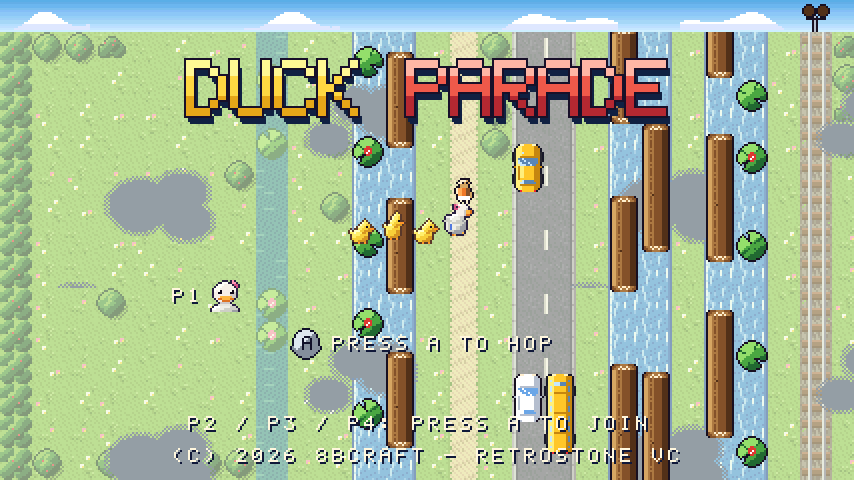
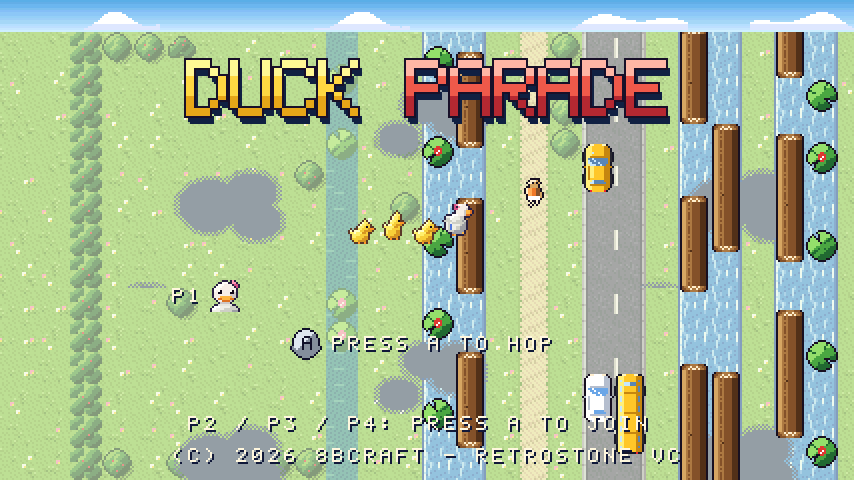
Duck Parade: wide view 1/3 left (a third of the extra width behind the duck)
Widescreen: the stage origin is a third of the extra width (WIDE_LEFT_NUM /
WIDE_LEFT_DEN in tuning.h): 35 px behind and 72 ahead at 427, 66 and 134 at
520, 80 and 160 at 560. The world, the generator, the rules (the camera, the
fox on the stage's left edge) and the start are unchanged; the field is drawn
from the screen's real left edge (the passed columns; behind the start, more
meadow), the traffic, lights and sprites behind are shown, the fox's red edge
tints everything left of its line, the HUD and UI stay centred (hu_ui_x). The
sprite budget and the bot keep the stage (4:3) as before. Tests: test_ui checks
that every column on the screen is drawn, wide_test the screen's edges (through
a touch target). 320 byte-identical. Screenshots again (banking-nest-pond.png
was stale before this change).

diff --git a/games/duckparade/src/draw.c b/games/duckparade/src/draw.c
@@ -27,7 +27,8 @@ static const rs_color title_ramps[2][3] = {
 
 static rs_color line_col[FIELD_Y];
 static int16_t bg2_dx[RS_SCREEN_H];
-static int32_t drawn_col[64];    /* the world column drawn in each map slot (-1 none; widescreen: 64 slots) */
+#define NO_COL INT32_MIN         /* (a column behind the start, left of 0, may be drawn on a wide screen) */
+static int32_t drawn_col[64];    /* the world column drawn in each map slot (NO_COL none; widescreen: 64 slots) */
 static int8_t drawn_shift[64];   /* the rapids' shift drawn there */
 static int shown_state = -1, shown_best = -1, shown_players = -1;
 static int facing[MAX_PLAYERS];  /* the last hop's direction (the sprite faces it) */
@@ -66,8 +67,10 @@ static void sky_gradient(void)
 }
 
 /* ---- set-up -------------------------------------------------------------------------------------------------------- */
-/* Widescreen (DESIGN.md "Widescreen"): the stage origin stays 0 (the world is revealed wider on the right; the camera,
- * the fox on the left edge and the rules are those of 320 columns). The field (BG3) and the sky band and cloud
+/* Widescreen (DESIGN.md "Widescreen"): the world is revealed wider, a third of the extra width behind the duck (the
+ * stage origin, wide_left(): main.c sets it) and two thirds ahead; the camera, the fox on the stage's left edge and the
+ * rules are those of 320 columns, in stage coordinates. The field draws the columns from the screen's real left edge
+ * (behind the start, left of column 0, grass). The field (BG3) and the sky band and cloud
  * shadows (BG2) are 64-tile maps (512 px) at 320 columns, 128 (1024 px) on a wider screen: the field's columns go
  * round 64 map slots instead of 32, the band's clouds go on over 1024 px (sky-wide.png: no cloud seen twice), the
  * shadows' 256-px pattern repeats as at 320. The UI layer is 128 tiles beyond 512 columns; it is scrolled by
@@ -77,6 +80,7 @@ static int wide(void) { return rs_screen_width() > RS_SCREEN_W; }
 static int map_w(void) { return wide() ? 128 : 64; }                  /* BG2, BG3 */
 static int ui_w(void) { return rs_screen_width() > 512 ? 128 : 64; }  /* BG1 */
 static int slots(void) { return rs_bg_map_w(RS_BG3) / 2; }           /* the field's map slots (16-px columns) */
+int draw_col_shown(int32_t col) { return drawn_col[col & (slots() - 1)] == col; }   /* tests/test_ui.c */
 
 static void maps_setup(void)
 {
@@ -93,7 +97,7 @@ static void maps_setup(void)
         }
     for (int y = BAND_ROWS; y < 32; y++)
         for (int x = 0; x < map_w(); x++) rs_bg_put(RS_BG2, x, y, dp_shadow_map[((y - BAND_ROWS) & 15) * 32 + (x & 31)]);
-    for (int i = 0; i < 64; i++) drawn_col[i] = -1;
+    for (int i = 0; i < 64; i++) drawn_col[i] = NO_COL;
 }
 
 void draw_init(void)
@@ -115,13 +119,13 @@ void draw_init(void)
     sky_gradient();
     rs_bg_line_scroll(RS_BG2, bg2_dx, NULL);
     rs_raster(raster, NULL);
-    for (int i = 0; i < 64; i++) drawn_col[i] = -1;
+    for (int i = 0; i < 64; i++) drawn_col[i] = NO_COL;
 }
 
 void draw_reset(const world *w)
 {
     (void)w;
-    for (int i = 0; i < 64; i++) drawn_col[i] = -1;
+    for (int i = 0; i < 64; i++) drawn_col[i] = NO_COL;
     for (int p = 0; p < MAX_PLAYERS; p++) facing[p] = HOP_FWD;
     hud_score = hud_line = hud_best = hud_score2 = -1;
     photo_t = -1;
@@ -220,9 +224,11 @@ static void draw_column(const world *w, int32_t col, int slot)
 
 static void field(const world *w, int cam)
 {
-    int c0 = cam >> 4, sm = slots() - 1;
-    for (int32_t c = c0 - 1; c <= c0 + screen_cols() + 1; c++) {        /* widescreen: to the real right edge */
-        if (c < 0) continue;
+    int c0 = cam >> 4, sm = slots() - 1, left = left_cols();
+    /* widescreen: from the real left edge (the world behind the duck; behind the start, left of column 0, the meadow
+     * goes on: grass) to the real right edge */
+    for (int32_t c = c0 - 1 - left; c <= c0 + screen_cols() + 1; c++) {
+        if (c < 0 && !left) continue;
         int slot = (int)(c & sm);
         const lane *l = world_lane(w, c);
         if (drawn_col[slot] != c) { draw_column(w, c, slot); continue; }
@@ -331,8 +337,8 @@ int draw_dropped(void) { return spr_dropped; }
 static void spr(int id, int x, int y, int prio, int pal, int flags)
 {
     const dp_sprite_def *d = &dp_spr[id];
-    if (x <= -(int)d->w || x >= rs_screen_right() || y <= -(int)d->h || y >= RS_SCREEN_H) return;
-    int tier = x - spr_ui_dx >= RS_SCREEN_W;       /* off a 4:3 screen: only a wider one shows it */
+    if (x <= rs_screen_left() - (int)d->w || x >= rs_screen_right() || y <= -(int)d->h || y >= RS_SCREEN_H) return;
+    int ux = x - spr_ui_dx, tier = ux >= RS_SCREEN_W || ux <= -(int)d->w;   /* off a 4:3 screen: only a wider one shows it */
     if (tier ? nq >= Q_MAX : nq0 >= Q_CLASSIC) return;
     nq0 += !tier;
     qspr *s = &q[nq++];
@@ -535,7 +541,7 @@ static int mover_sprite(int kind, int down, int t, int i, int *dy)
 static void draw_traffic(const world *w, int cam, int sx, int sy, int t, int platforms)
 {
     int c0 = cam >> 4;
-    for (int32_t c = c0; c <= c0 + screen_cols(); c++) {              /* widescreen: to the real right edge */
+    for (int32_t c = c0 - left_cols(); c <= c0 + screen_cols(); c++) {  /* widescreen: from the real left edge */
         const lane *l = world_lane(w, c);
         if (!l) continue;
         int x = c * CELL - cam + sx;
@@ -565,7 +571,7 @@ static void draw_traffic(const world *w, int cam, int sx, int sy, int t, int pla
 static void draw_band(const world *w, int cam, int t)
 {
     int c0 = cam >> 4;
-    for (int32_t c = c0; c <= c0 + screen_cols(); c++) {              /* widescreen: to the real right edge */
+    for (int32_t c = c0 - left_cols(); c <= c0 + screen_cols(); c++) {  /* widescreen: from the real left edge */
         const lane *l = world_lane(w, c);
         if (!l) continue;
         int x = c * CELL - cam;
@@ -862,7 +868,8 @@ void draw_frame(const world *w, int state, int st_t, int best, int new_best, int
     }
     draw_band(w, cam, t);
     draw_fox(w, cam, sx, sy, t);
-    if (fog_w) { rs_window(0, 0, fog_w); rs_fog(RS_WIN1, RS_RGB(28, 6, 4), RS_MATH_BG3); }
+    /* the fox's red edge: from the screen's left edge (widescreen: the world behind the stage too) */
+    if (fog_w) { rs_window(0, rs_screen_left(), fog_w); rs_fog(RS_WIN1, RS_RGB(28, 6, 4), RS_MATH_BG3); }
     else rs_fog(0, 0, 0);
     for (int p = 0; p < w->players && state != DS_TITLE; p++) draw_duck(w, p, cam, sx, sy, t);
     for (int p = 0; p < w->players; p++) draw_line(w, p, cam, sx, sy, t);

diff --git a/games/duckparade/tests/test_ui.c b/games/duckparade/tests/test_ui.c
@@ -221,10 +221,21 @@ static void mode_title(void)
     if (!fails) OK("get ready, the first hop, the HUD, pause and resume");
 }
 
+/* widescreen: every world column on the screen is drawn in the field's map, those behind the 320-column stage too (a
+ * third of the extra width is behind the duck: DESIGN.md "Widescreen"; behind the start, left of column 0, grass) */
+int draw_col_shown(int32_t col);
+static int field_drawn(const world *w)
+{
+    int cam = world_cam_px(w);
+    for (int32_t c = (cam + rs_screen_left()) >> 4; c <= (cam + rs_screen_right() - 1) >> 4; c++)
+        if (!draw_col_shown(c)) return 0;
+    return 1;
+}
+
 static void mode_run(int max_frames)
 {
     int st, last_st = -1, banks = 0, photo_ok = 0, band_checks = 0, band_bad = 0, hud_bad = 0, hud_checks = 0, line_bad = 0;
-    int over_checked = 0;
+    int over_checked = 0, field_bad = 0;
     for (int f = 0; f < max_frames; f++) {
         frame(0, 0);
         const world *w = dp_test_world(&st);
@@ -239,6 +250,7 @@ static void mode_run(int max_frames)
                 band_checks++;
                 int r = band_hides_world();
                 if (r < 0) band_bad++;
+                if (!field_drawn(w) && field_bad++ < 3) printf("  frame %d: a column on the screen is not drawn\n", f);
             }
             if (w->events[0] & EV_BANK) {
                 banks++;
@@ -274,6 +286,8 @@ static void mode_run(int max_frames)
     CHECK(hud_checks > 300 && hud_bad == 0, "the HUD showed the score on every frame of the run (%d frames, %d wrong)", hud_checks, hud_bad);
     CHECK(line_bad == 0, "the duckling count on the HUD (%d wrong)", line_bad);
     CHECK(band_checks > 20 && band_bad == 0, "the sky band hides the world's sprites (%d checks, %d failed)", band_checks, band_bad);
+    CHECK(field_bad == 0, "every world column on the screen is drawn, from x %d (the world behind the stage: %d px) "
+          "(%d checks, %d failed)", rs_screen_left(), rs_screen_origin_x(), band_checks, field_bad);
     CHECK(banks == 0 || photo_ok == banks, "the family photo after each banking (%d of %d)", photo_ok, banks);
     CHECK(over_checked, "the run ended on the game-over panel");
     printf("  %d banking(s) seen\n", banks);

diff --git a/games/duckparade/src/dp.h b/games/duckparade/src/dp.h
@@ -19,9 +19,12 @@ static inline int clampi(int v, int lo, int hi) { return v < lo ? lo : v > hi ? 
 static inline int absi(int v) { return v < 0 ? -v : v; }
 static inline int modi(int a, int m) { int r = a % m; return r < 0 ? r + m : r; }
 /* Widescreen (DESIGN.md "Widescreen"): the columns the screen shows, SCREEN_COLS (20) at 320, up to 35 at 560. The
- * screen shows more of the world on the right; the rules (the camera, the fox, where a knocked duckling flies) keep
- * SCREEN_COLS: only what is generated and drawn follows the width. */
+ * screen shows more of the world, a third of the extra width behind (left of the 320-column stage: the stage origin,
+ * wide_left()) and two thirds ahead; the rules (the camera, the fox, where a knocked duckling flies) keep SCREEN_COLS
+ * and the stage: only what is generated and drawn follows the width. */
 static inline int screen_cols(void) { return (rs_screen_width() + CELL - 1) / CELL; }
+static inline int wide_left(void) { return (rs_screen_width() - RS_SCREEN_W) * WIDE_LEFT_NUM / WIDE_LEFT_DEN; }
+static inline int left_cols(void) { return (wide_left() + CELL - 1) / CELL; }   /* world columns shown behind */
 
 /* ================================ lanes.c ========================================================== */
 enum lane_kind { LK_GRASS, LK_ROAD, LK_RIVER, LK_RAIL, LK_PARK, LK_POND, LK_NEST, LK_HEDGE, LK_KINDS };

diff --git a/games/duckparade/src/bot.c b/games/duckparade/src/bot.c
@@ -114,7 +114,8 @@ static void look(int scroll)
     for (int i = 0; i < RS_OAM_MAX; i++) {
         rs_sprite *s = rs_oam(i);
         if (!s || !s->used || (s->flags & RS_SPR_HIDE)) continue;
-        if (s->x >= RS_SCREEN_W) continue;       /* widescreen: the bot looks at the 4:3 screen (it plays the same) */
+        /* widescreen: the bot looks at the 4:3 screen, the stage (it plays the same): not at what is behind or ahead */
+        if (s->x >= RS_SCREEN_W || s->x <= -(int)s->w) continue;
         int t = s->tile, kind = -1, dir = 0, y = s->y - FIELD_Y, h = s->h;
         if (spr_in(t, SPR_DUCK_RIGHT, 4) || spr_in(t, SPR_DUCK_LEFT, 4) || spr_in(t, SPR_DUCK_UP, 4) || spr_in(t, SPR_DUCK_DOWN, 4)) {
             int p = parent_of_pal(s->pal);

diff --git a/games/duckparade/src/tuning.h b/games/duckparade/src/tuning.h
@@ -118,6 +118,10 @@
 #define MEADOW_COLS      8      /* the starting meadow: columns 0..7 */
 #define START_COL        6
 #define START_ROW        7
+/* widescreen (DESIGN.md "Widescreen"): the share of the extra width shown on the LEFT, behind the duck (the rest is
+ * ahead, on the right): the stage origin. 427: 35 px behind, 72 ahead; 520: 66 and 134; 560: 80 and 160. */
+#define WIDE_LEFT_NUM    1
+#define WIDE_LEFT_DEN    3
 
 /* group sizes (lanes) at lane 0 .. at DIFF_LANES */
 #define ROAD_GROUP_START 2

diff --git a/games/duckparade/src/main.c b/games/duckparade/src/main.c
@@ -448,6 +448,9 @@ static void game_draw(void)
 
 static void game_init(void)
 {
+    /* widescreen: a third of the extra width behind the duck, the 320-column stage after it (DESIGN.md "Widescreen";
+     * the kit's UI stays centred on the screen: hu_ui_x()) */
+    rs_screen_origin(wide_left());
     save_load();
     shown_records[0] = SV.best;
     shown_records[1] = SV.best_coop;

diff --git a/games/duckparade/DESIGN.md b/games/duckparade/DESIGN.md
@@ -40,11 +40,21 @@ banking flashes it (added white, fading); the fox's warning tints the left edge 
 
 ## Widescreen (docs/spec.md "Widescreen")
 The game opts in (`max_width` = 560, `WIDESCREEN_duckparade = 1`): 320 (4:3) is unchanged pixel for pixel; at 427
-(16:9) or 520 (phones) **the world is simply revealed wider**, to the right (20 columns at 320, 27 at 427, 33 at 520).
-- The stage origin stays 0. **The rules are those of 320 columns**: the camera (Mother at column 8, the creep, co-op's
-  leader eased back to column 12 and never right of 16), the fox on the left edge, where a knocked-off duckling flies
-  (the nearest grass within 20 columns). A wider screen only sees further ahead: a little easier, accepted (no
-  compensation).
+(16:9) or 520 (phones) **the world is simply revealed wider** (20 columns at 320, 27 at 427, 33 at 520): **a third of
+the extra width behind the duck, on the left, two thirds ahead, on the right** (the owner's choice: some of the passed
+world stays in view; `WIDE_LEFT_NUM / WIDE_LEFT_DEN` in tuning.h): 35 px behind and 72 ahead at 427, 66 and 134 at
+520, 80 and 160 at 560.
+- The 320-column **stage** keeps the 4:3 screen's place in the world: the stage origin (`rs_screen_origin`, set in
+  init) is that left share (`wide_left()`), so the screen shows stage x -35 .. 392 at 427. **The rules are those of
+  320 columns, on the stage**: the camera (the world x of the stage's left edge; Mother at column 8, the creep, co-op's
+  leader eased back to column 12 and never right of 16), the fox on the stage's left edge (it now trots in where the
+  passed world can be seen behind it, and its red warning tints everything left of its line), where a knocked-off
+  duckling flies (the nearest grass within 20 columns). A wider screen sees further ahead: a little easier, accepted
+  (no compensation). The start is unchanged: Mother in the same stage column, the first hazard as far ahead.
+- The field is drawn from the screen's real left edge: the passed columns (the 64-column ring still holds 15 behind
+  the camera; 6 at most are needed) and, behind the start (left of column 0, the meadow's hedge), more meadow grass.
+  tests/test_ui.c checks on every 16th frame of a run, at each width, that every world column on the screen is drawn.
+  Touch targets are converted through the stage origin (a tap behind the stage is a target behind Mother).
 - **The world is world content.** The generator makes columns up to the REAL right edge plus 14 (at most 48 ahead:
   the 64-column ring keeps the columns just behind the camera); it makes the same columns whenever it is asked (its
   judge's times come from the unit, not the frame), so the lanes, the ducklings and the nest ponds are the same at
@@ -56,10 +66,11 @@ The game opts in (`max_width` = 560, `WIDESCREEN_duckparade = 1`): 320 (4:3) is 
 - The UI (title, logo, prompt, the sky band's HUD, the photo, panels, results, pause) is centred: the UI layer scrolls
   by -hu_ui_x() and the game's UI sprites (the HUD's icons, the parents' heads, the egg medals, the marching family,
   the photo) add hu_ui_x(). The UI layer is 128 tiles wide beyond 512 columns.
-- **The sprite budget keeps the 4:3 screen as it was**: the sprites a 320-column screen shows (x < 320; the UI's at
-  their UI x) are queued and kept first, with the 4:3 rules (256 in the queue, 32 on a line), then the wider screen's
-  with what is left (128 in all, 32 per 320 columns on a line). So **the bot**, which looks at the 4:3 part of the
-  screen (sprites at x < 320, the 22 columns of the map), decides the same at every width: tests/wide_test.sh compares
+- **The sprite budget keeps the 4:3 screen as it was**: the sprites a 320-column screen shows (stage x from -w to
+  320; the UI's at their UI x) are queued and kept first, with the 4:3 rules (256 in the queue, 32 on a line), then the
+  wider screen's, behind and ahead, with what is left (128 in all, 32 per 320 columns on a line). So **the bot**, which
+  looks at the 4:3 part of the screen, the stage (sprites at stage x -w..320, the 22 columns of the map), decides the
+  same at every width: tests/wide_test.sh compares
   the whole logs and states at 320, 427, 520 and 560 (solo, from the title, co-op, four parents to the results).
 - Save states load at any width: a state of another width brings maps of another size, so `state_loaded` sets them up
   again (the sky, the field redrawn from the world, the UI, the photo and PAUSED on the next frame); live width
